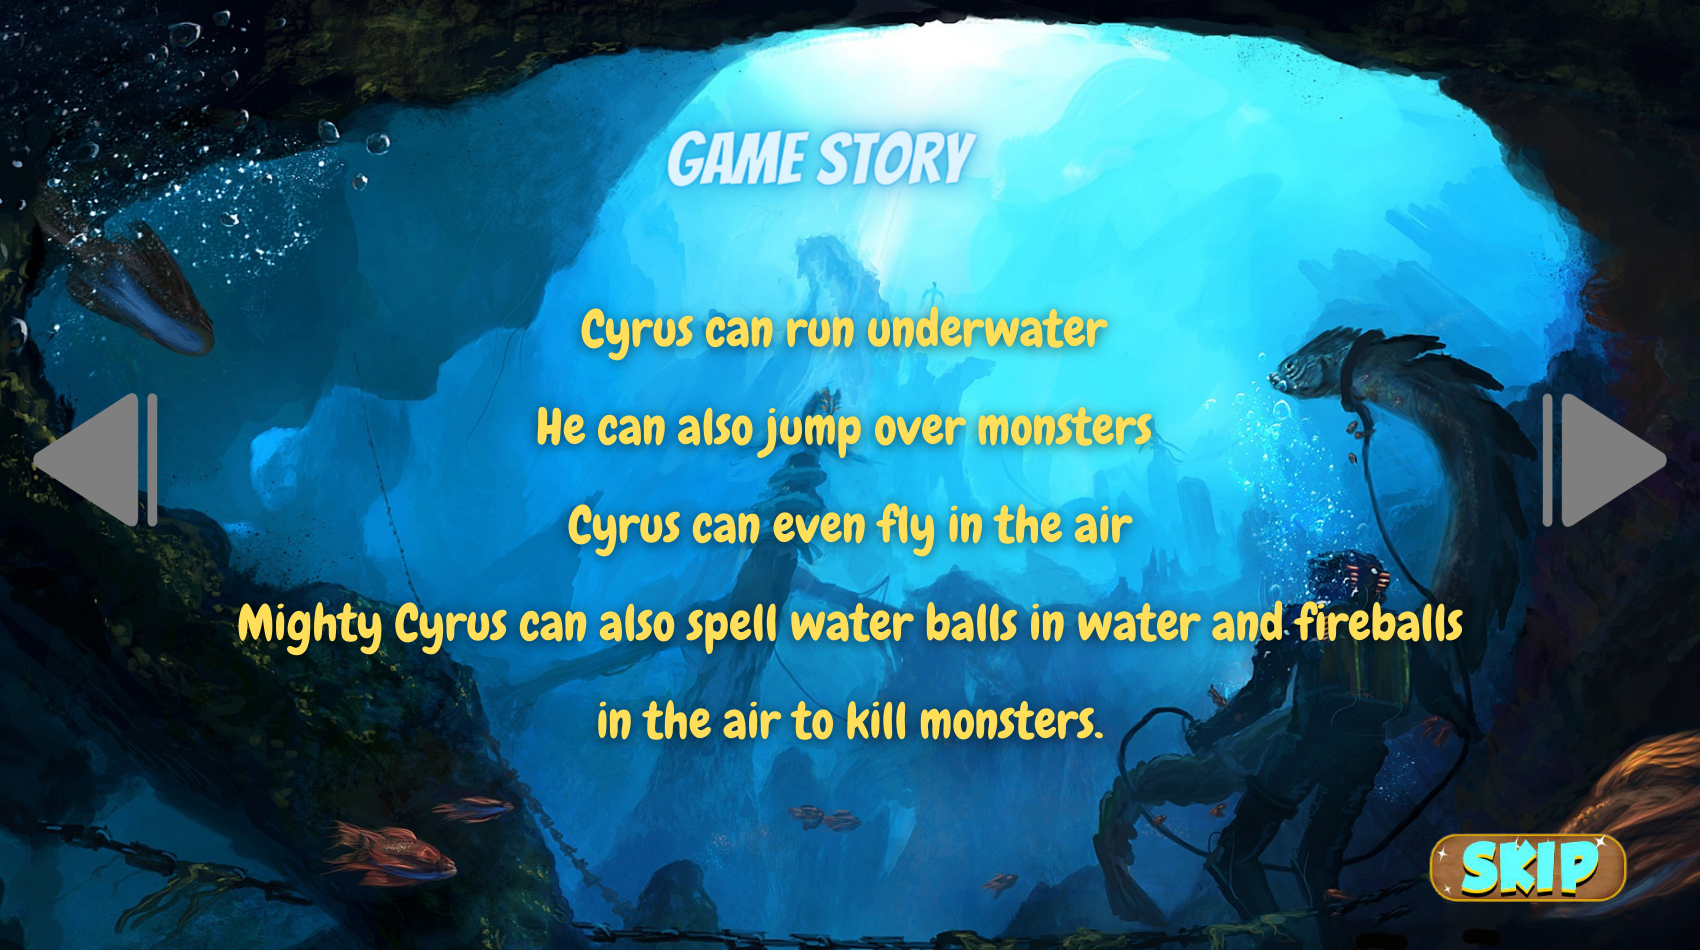
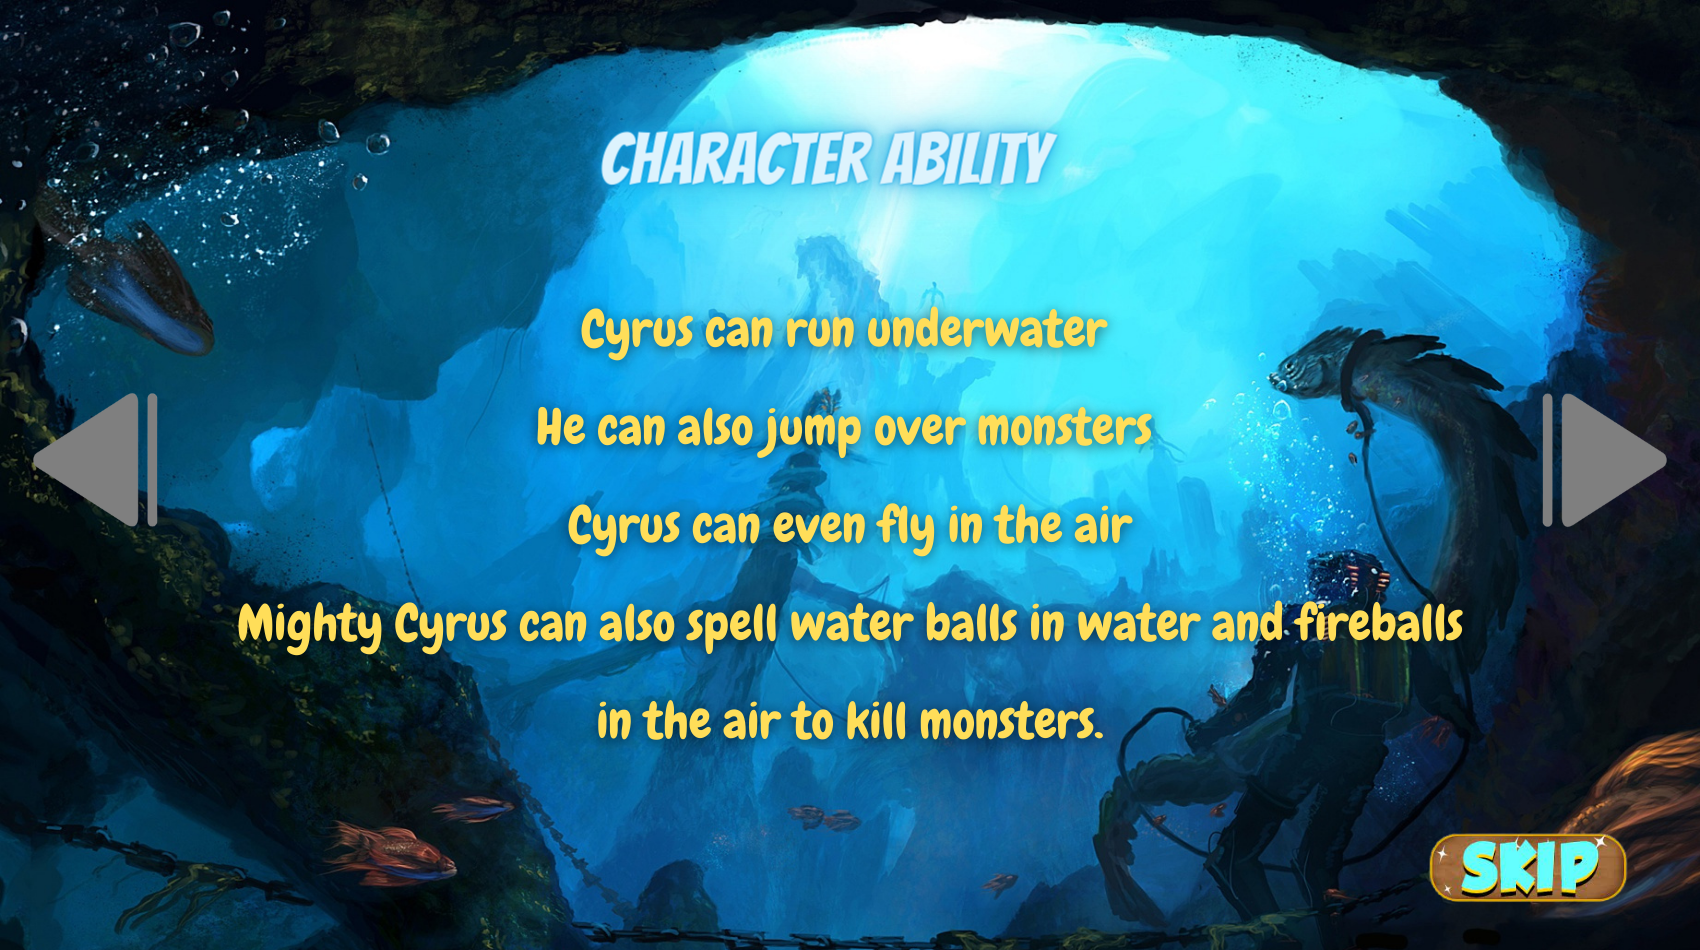
Intro Screen Modified
More detailed info are given now

Changed region(s): [[0.3429, 0.1221, 0.6235, 0.2137]]

diff --git a/core/src/com/mygdx/game/IntroScreen.java b/core/src/com/mygdx/game/IntroScreen.java
@@ -1,9 +1,6 @@
 package com.mygdx.game;
 
-import Intro.IntroScreen1;
-import Intro.IntroScreen3;
 import com.badlogic.gdx.Gdx;
-import com.badlogic.gdx.Input;
 import com.badlogic.gdx.Screen;
 import com.badlogic.gdx.graphics.Texture;
 import game.AirWaterScreen;
@@ -12,7 +9,7 @@ public class IntroScreen implements Screen {
 
     MyGdxGame game;
 
-    Texture[] background = new Texture[6];
+    Texture[] background = new Texture[7];
     int state = 0;
 
     // sound starts
@@ -35,7 +32,8 @@ public class IntroScreen implements Screen {
         background[2] = new Texture("Intro\\3.png");
         background[3] = new Texture("Intro\\4.png");
         background[4] = new Texture("Intro\\5.png");
-        background[5] = new Texture("Intro\\6.png");
+        background[5] = new Texture("Intro\\7.png");
+        background[6] = new Texture("Intro\\6.png");
 
         mute = new Texture("Audio\\mute.png") ;
 
@@ -66,7 +64,7 @@ public class IntroScreen implements Screen {
             }
         }
 
-        if(state == 5)
+        if(state == 6)
         {
             if (Gdx.input.getX() >= 1544 && Gdx.input.getX() <= 1666 &&
                     MyGdxGame.SCREEN_HEIGHT - Gdx.input.getY() >= 423
@@ -85,7 +83,7 @@ public class IntroScreen implements Screen {
             if (Gdx.input.justTouched()) {
 
                 state++;
-                if(state == 6) state = 5;
+                if(state == 7) state = 6;
                  SoundManager.click.play();
 
             }
@@ -147,6 +145,7 @@ public class IntroScreen implements Screen {
         background[3].dispose();
         background[4].dispose();
         background[5].dispose();
+        background[6].dispose();
 
     }
 }
